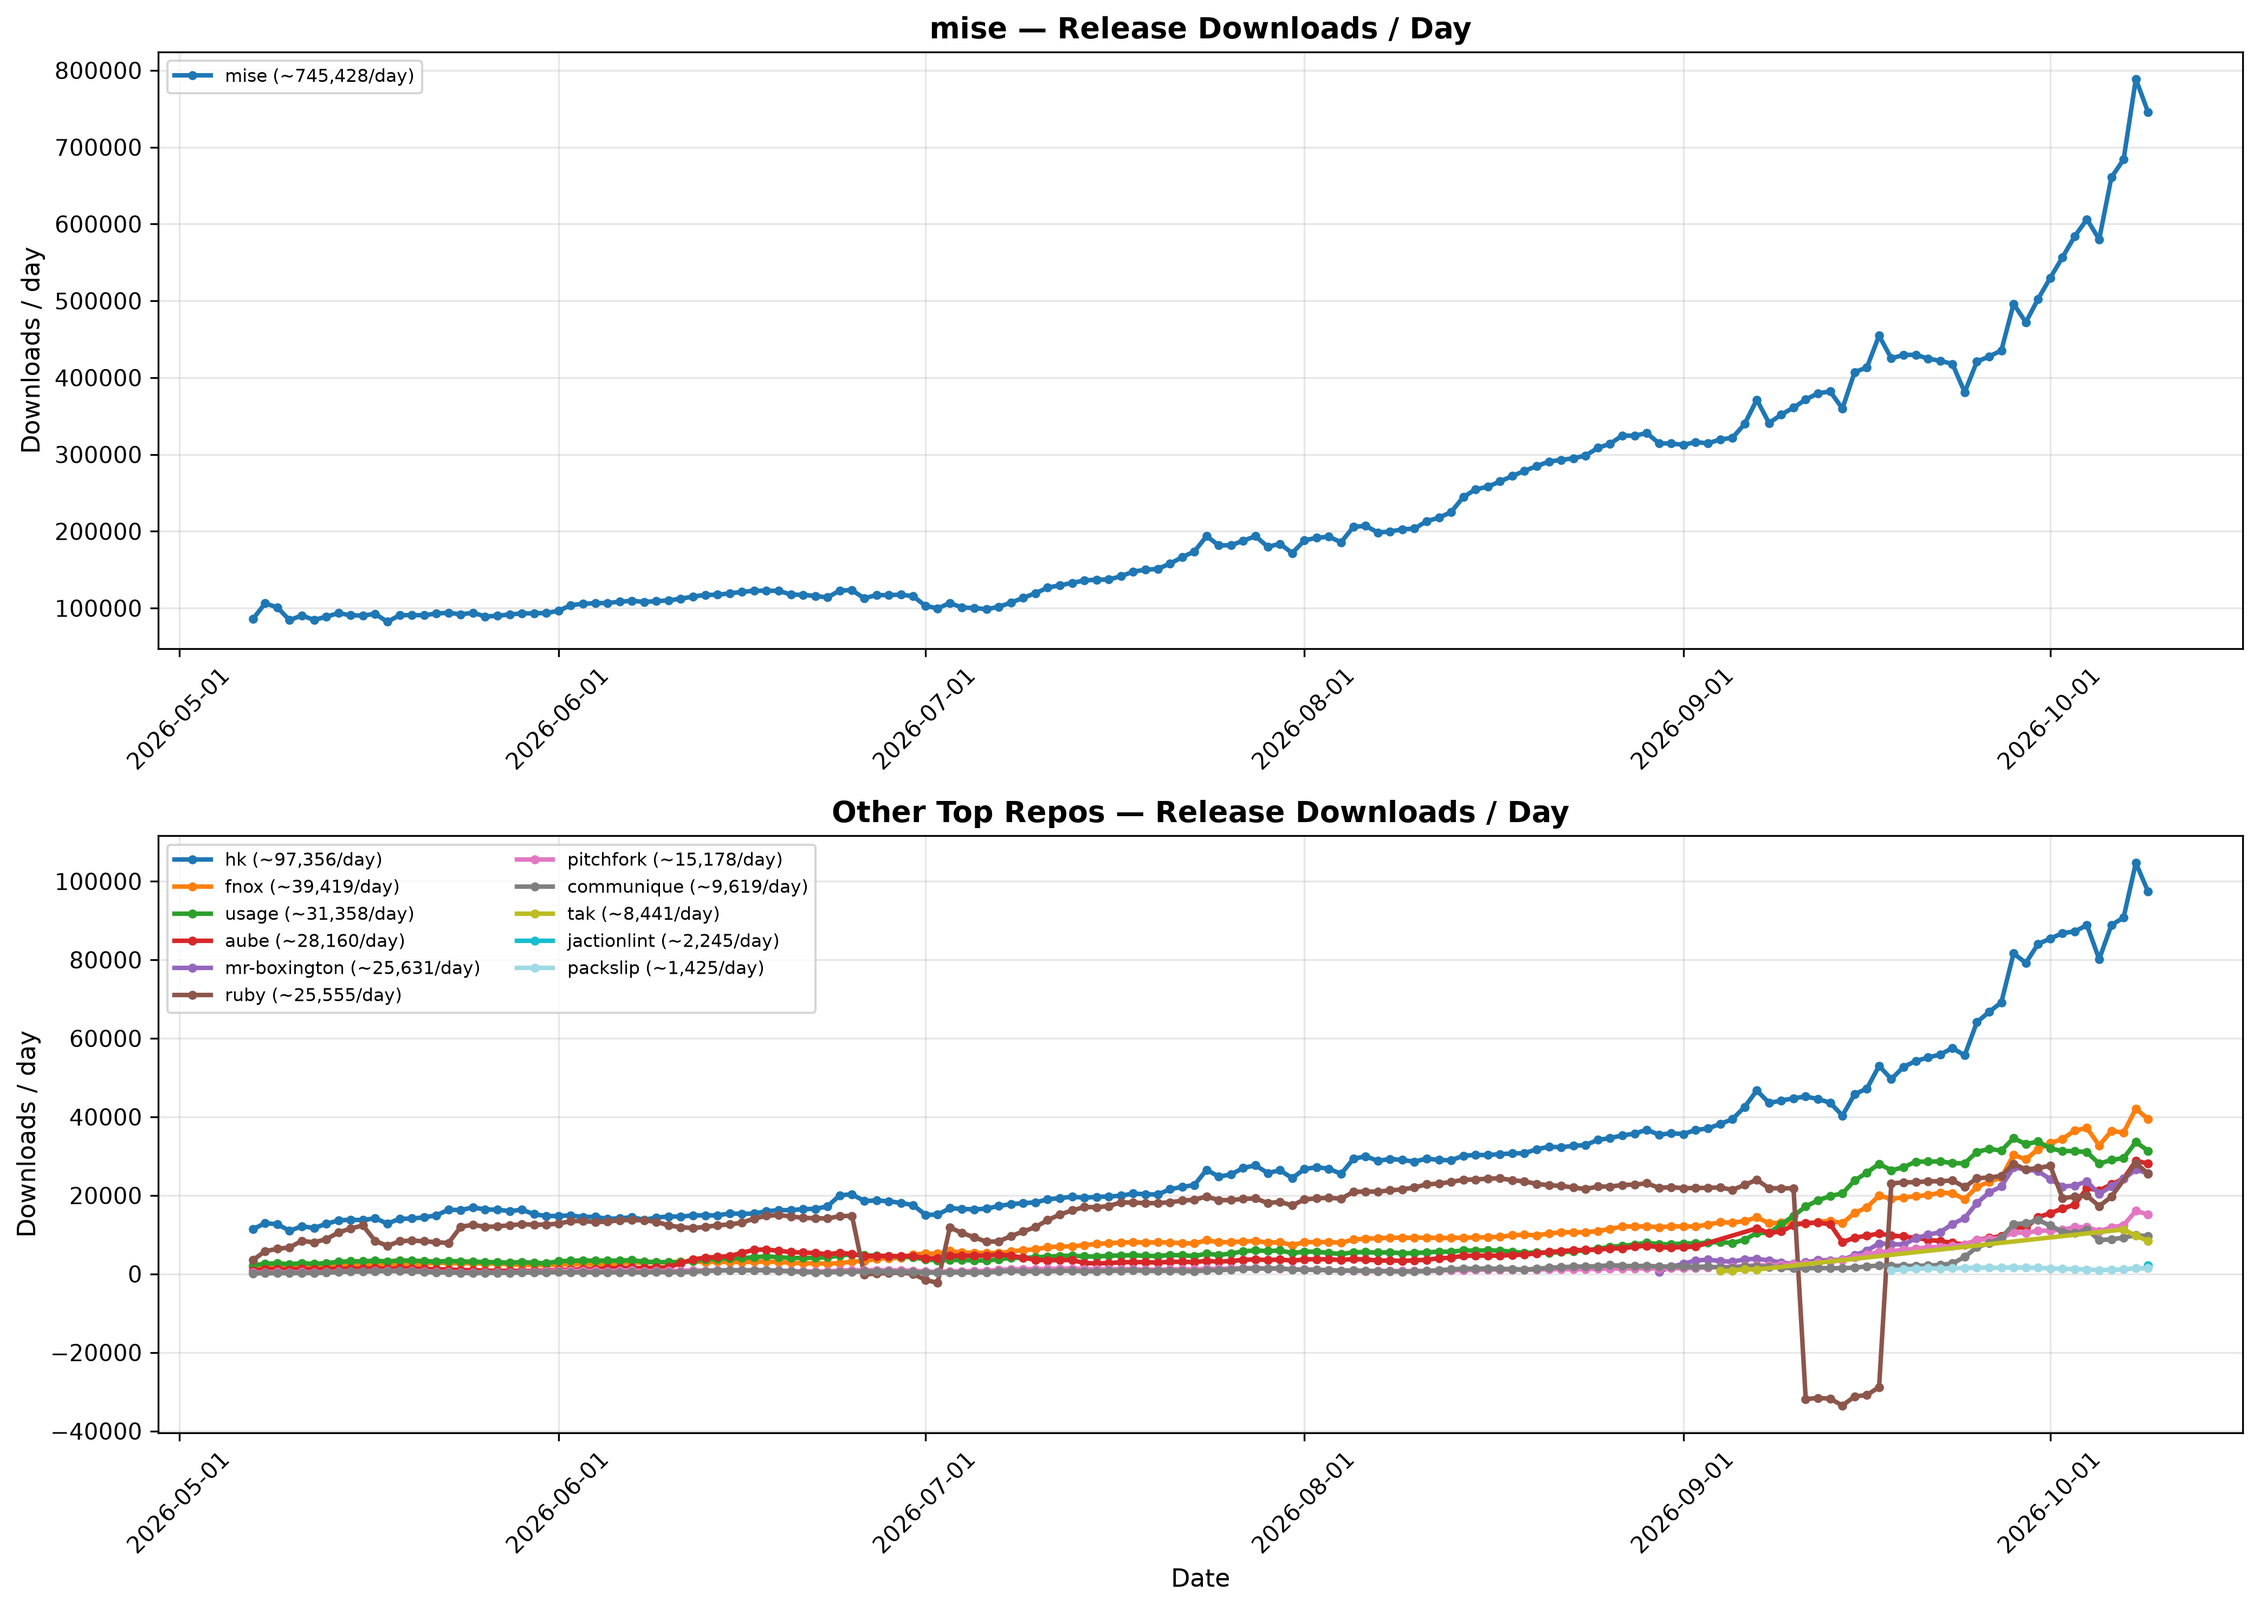
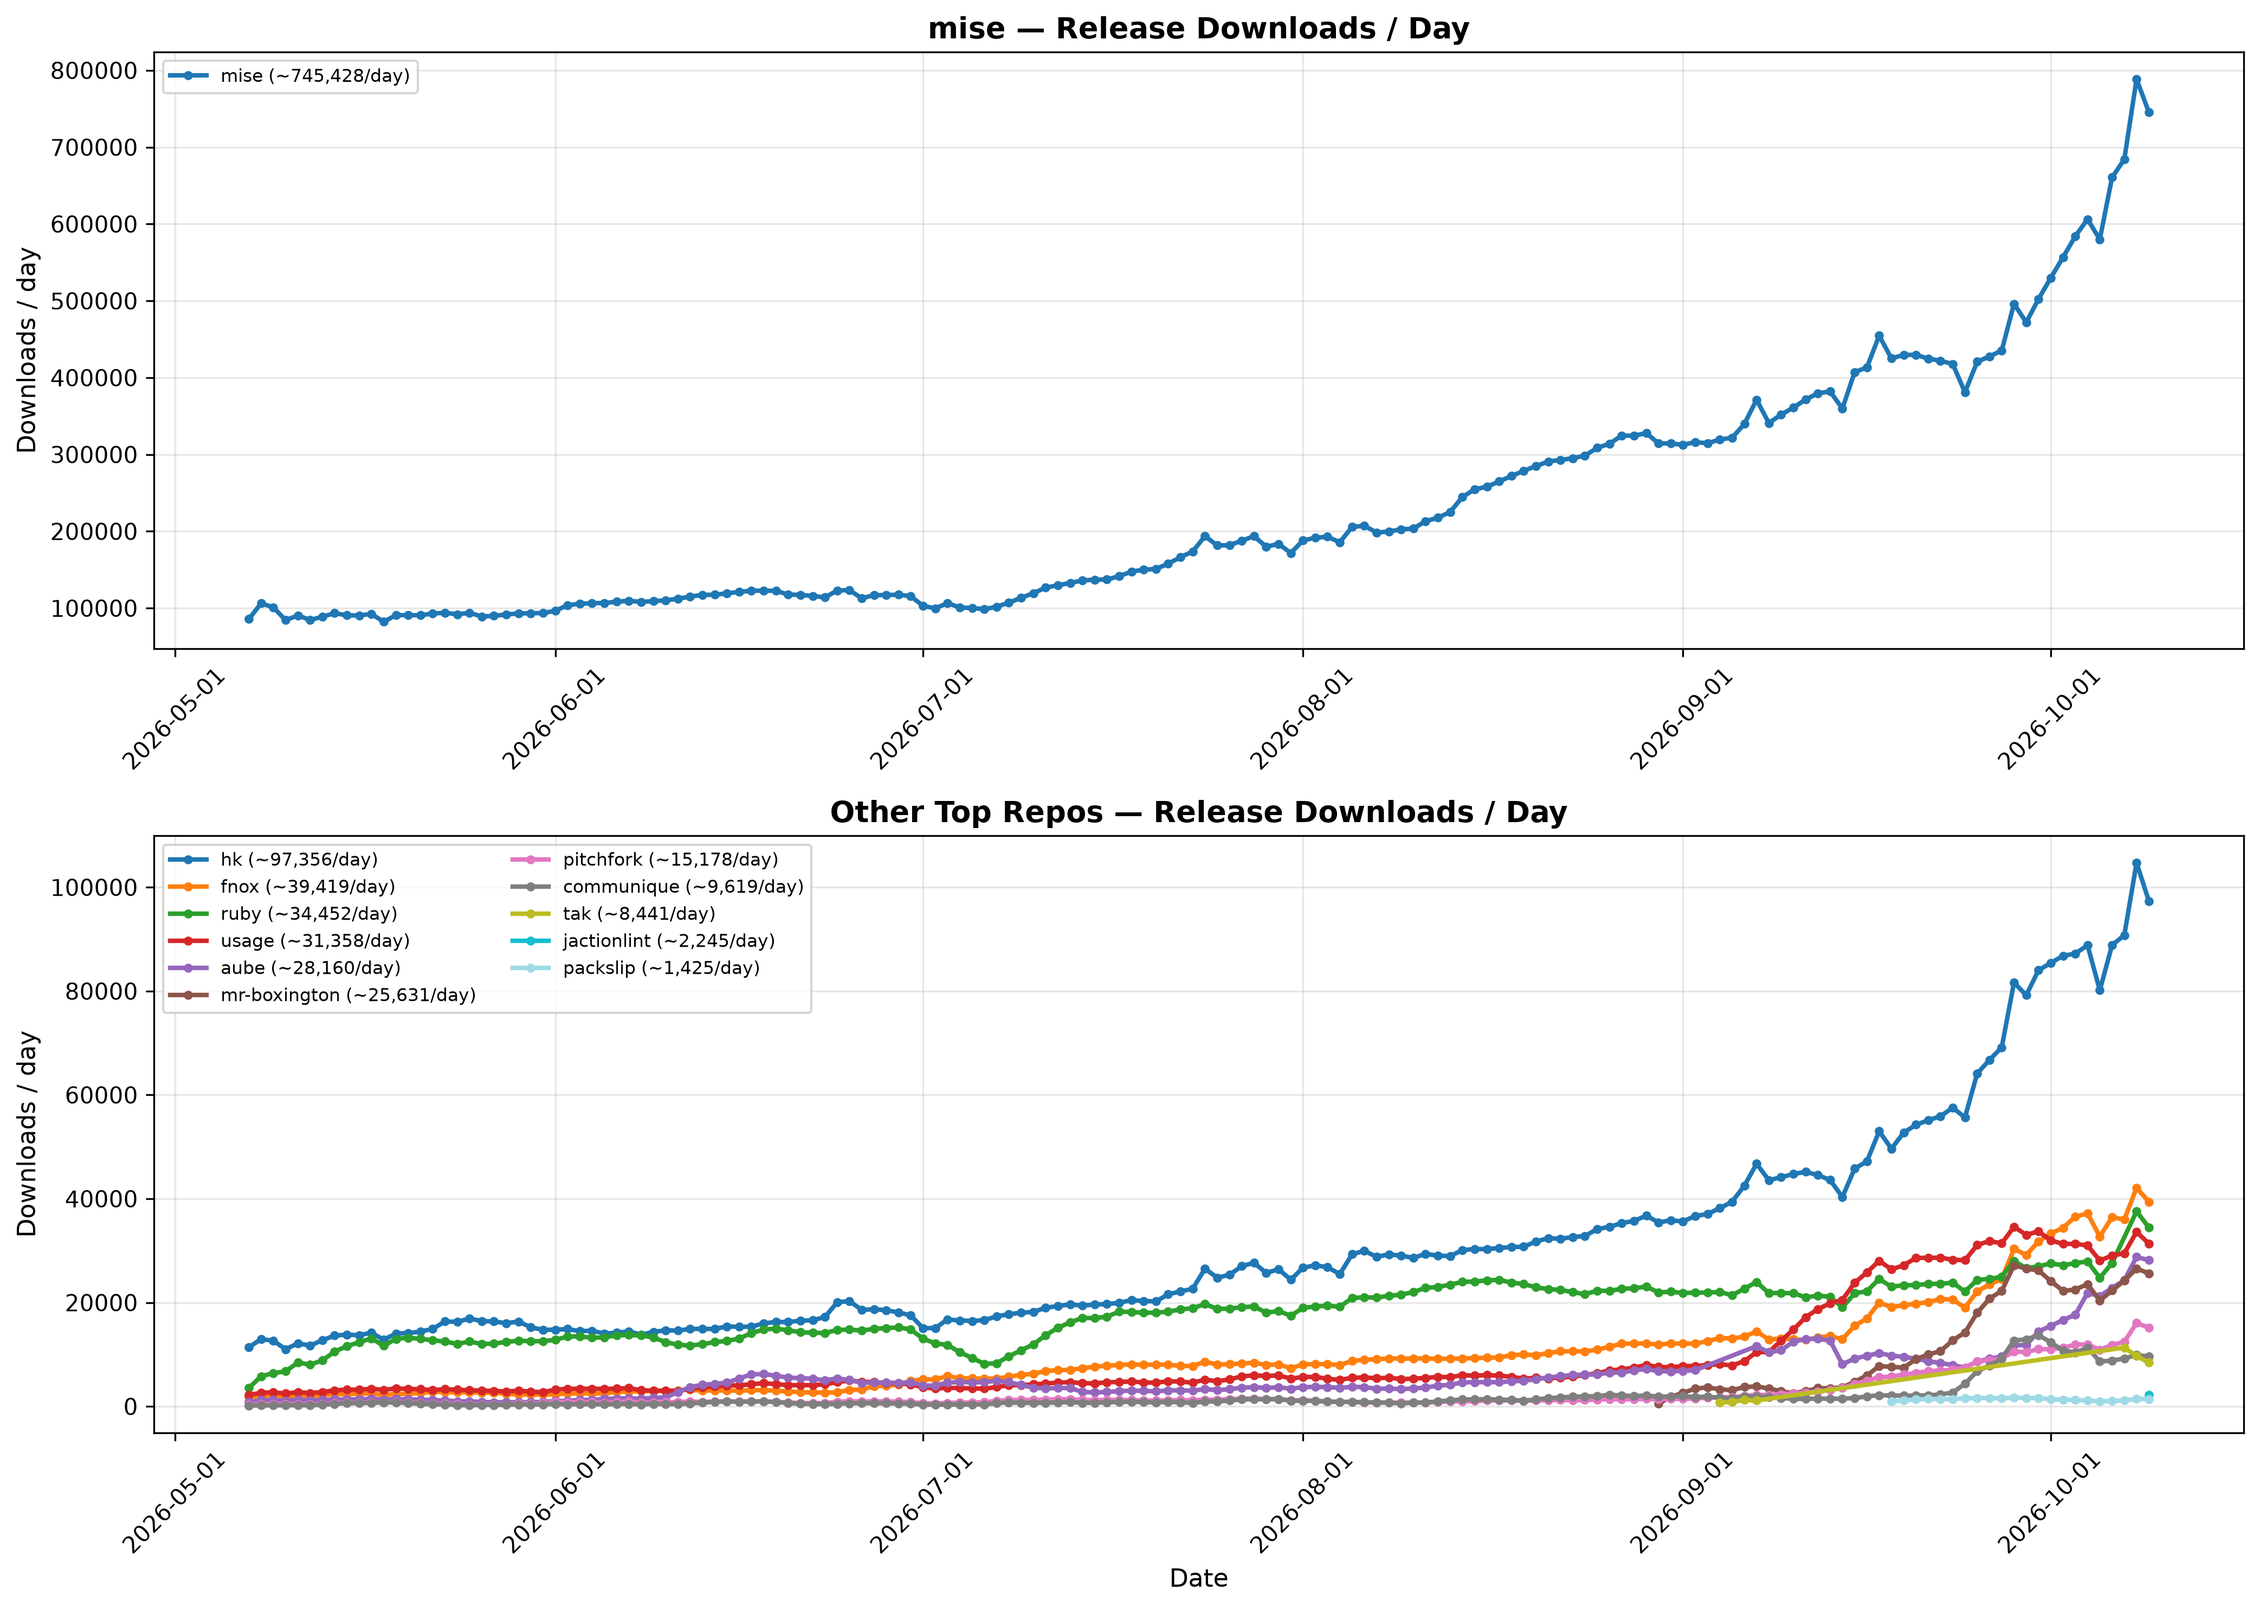
fix: skip days where a repo's release download total falls
The total is summed over releases that still exist, so deleting or
pruning a release (jdx/ruby) made the daily diff negative and dragged
the chart below zero. Treat those days as unknown in the plot and warn
in the fetch step.

diff --git a/mise-tasks/fetch-top-repos-downloads.py b/mise-tasks/fetch-top-repos-downloads.py
@@ -81,6 +81,13 @@ def main():
     today = datetime.now(timezone.utc).strftime("%Y-%m-%d")
     new_file = not OUTPUT_FILE.exists()
 
+    previous_totals = {}
+    if not new_file:
+        with OUTPUT_FILE.open() as f:
+            for row in csv.DictReader(f):
+                if row["date"] < today:
+                    previous_totals[row["repo_name"]] = int(row["release_downloads"])
+
     rows = []
     for owner, name, repo_name in read_tracked_repos():
         try:
@@ -89,6 +96,13 @@ def main():
             print(f"error fetching {owner}/{name}: {e}", file=sys.stderr)
             continue
         print(f"{repo_name}: {total:,} downloads")
+        previous = previous_totals.get(repo_name)
+        if previous is not None and total < previous:
+            print(
+                f"warning: {repo_name} total fell by {previous - total:,} "
+                "(release deleted or assets pruned); the chart skips this day",
+                file=sys.stderr,
+            )
         rows.append((today, repo_name, total))
 
     with OUTPUT_FILE.open("a", newline="") as f:

diff --git a/mise-tasks/plot-top-repos-downloads.py b/mise-tasks/plot-top-repos-downloads.py
@@ -50,7 +50,13 @@ def velocity_for_repo(repo_data: pd.DataFrame) -> pd.DataFrame:
     daily = s.diff().dropna()
     if daily.empty:
         return pd.DataFrame()
-    rolled = daily.rolling(window=ROLLING_WINDOW, min_periods=1).mean()
+    # The total is the sum over releases that still exist, so deleting or
+    # pruning a release makes it fall. That is not negative downloads; treat
+    # the day as unknown and let the rolling mean skip it.
+    daily = daily.where(daily >= 0)
+    rolled = daily.rolling(window=ROLLING_WINDOW, min_periods=1).mean().dropna()
+    if rolled.empty:
+        return pd.DataFrame()
     return pd.DataFrame({"date": rolled.index, "velocity": rolled.values})
 
 
